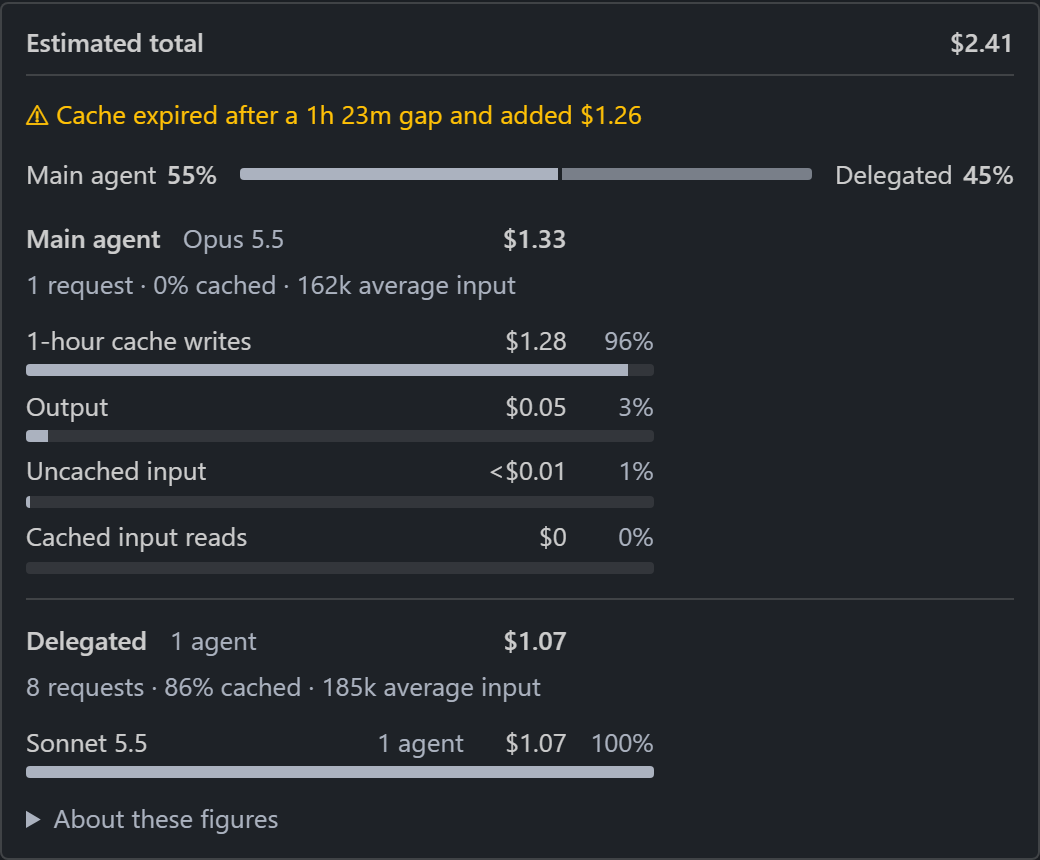
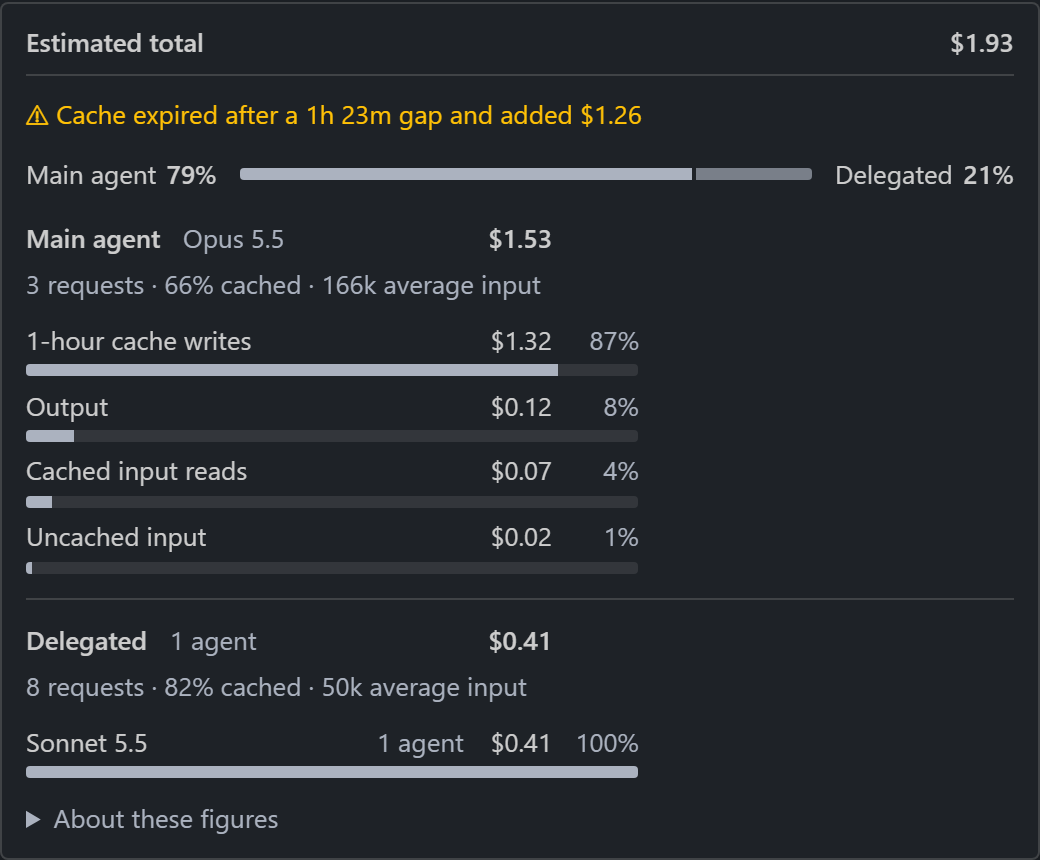
docs(readme): use realistic request counts in the cost sample
The cost sample turn now describes a plausible Opus turn with one Sonnet subagent.

Main agent: 1 request, 0% cached, 162k average input, $1.33 becomes 3 requests, 66% cached, 166k average input, $1.53. The first request still rewrites the expired cache, so the warning still reads "Cache expired after a 1h 23m gap and added $1.26". The expiry evidence now reads that first request alone. The other two requests read the rewritten cache.

Delegated Sonnet 5.5: 8 requests, 86% cached, 185k average input, $1.07 becomes 8 requests, 82% cached, 50k average input, $0.41. The estimated total changes from $2.41 to $1.93.

The turn card in the comment scenes now uses the same main-agent usage, so it shows $1.93 and 17% of 1M context instead of $3.41 and 5%. The Delegated Cost demo session keeps its own figures.

Replaced readme-cost.webp, readme-comment.webp, and readme-comment-editor.webp. No test expectation changed. panel-shots.test.ts and exportsite.test.ts pass.

Agent: claude-sonnet-5-5 (claude-code)
Agent-Session: 4dfbd3de-1eff-4f38-82e0-29401e255a1b

diff --git a/extension/scripts/readme-fixture.ts b/extension/scripts/readme-fixture.ts
@@ -320,31 +320,31 @@ const changesTurn: Turn = turn({
           model: 'claude-sonnet-5-5',
           usage: {
             requests: 8,
-            input: 42_000,
+            input: 12_000,
             cacheWrite1h: 0,
-            cacheWrite5m: 160_000,
-            cacheRead: 1_280_000,
-            output: 46_000,
+            cacheWrite5m: 60_000,
+            cacheRead: 328_000,
+            output: 20_000,
             thinking: 0,
           },
         },
       ],
       durationMs: 94_000,
-      tokens: 1_528_000,
+      tokens: 420_000,
       toolUses: 9,
       artifacts: { files: [], commits: [], complete: true, revision: 'changes-check' },
     }),
   ],
   usage: {
-    requests: 12,
-    input: 54_000,
-    cacheWrite1h: 0,
-    cacheWrite5m: 240_000,
-    cacheRead: 1_720_000,
-    output: 62_000,
+    requests: 3,
+    input: 4_000,
+    cacheWrite1h: 165_500,
+    cacheWrite5m: 0,
+    cacheRead: 328_000,
+    output: 6_000,
     thinking: 0,
   },
-  contextTokens: 52_000,
+  contextTokens: 168_000,
   contextWindow: 1_000_000,
   toolUses: 22,
   toolCounts: { edits: 3, reads: 8, searches: 3, commands: 6, agents: 1, coordination: 1, web: 0, other: 0 },
@@ -401,12 +401,18 @@ const expiryUsage = {
   output: 2_300,
   thinking: 0,
 };
+// The main agent makes three requests. The first starts the subagent and rewrites the expired cache, which is the request the expiry evidence holds. The second reads the subagent result and the third writes the answer, so both read the rewritten cache.
+const expiryTurnUsage = changesTurn.usage;
 const expiryTurn: Turn = {
   ...changesTurn,
-  usage: expiryUsage,
-  contextTokens: 162_000,
-  outputRate: { output: 2_300, milliseconds: 23_000 },
+  usage: expiryTurnUsage,
+  contextTokens: 168_000,
+  outputRate: { output: 6_000, milliseconds: 60_000 },
 };
+// The cache expiry evidence reads the request that crossed the lifetime, which is the first request of a turn.
+function firstRequestUsage(item: Turn): Turn['usage'] {
+  return item.promptId === expiryTurn.promptId ? expiryUsage : item.usage;
+}
 const expiryHistory: Turn[] = [
   expiryTurn,
   { ...beforeExpiry, usage: expiryUsage, contextTokens: 162_000 },
@@ -436,7 +442,7 @@ const expiryHistory: Turn[] = [
     inferenceClass: null,
     serviceTier: null,
     readBack: false,
-    outputTokens: item.usage.output,
+    outputTokens: firstRequestUsage(item).output,
   },
 }));
 const expiryRequest: ProjectUsageBucket = {
@@ -475,16 +481,16 @@ for (let index = expiryHistory.length - 2; index >= 0; index--) {
     requestKey: `claude:${item.openingResponseId}`,
     visibleTurnId: item.promptId,
     timestamp: item.startedAt,
-    inputTokens: item.usage.input + item.usage.cacheWrite1h,
+    inputTokens: firstRequestUsage(item).input + firstRequestUsage(item).cacheWrite1h,
   });
-  const verdict = classifyCacheExpiry(carry(previous), carry(current), current.usage);
+  const verdict = classifyCacheExpiry(carry(previous), carry(current), firstRequestUsage(current));
   if (verdict.kind !== 'return') throw new Error('The README return request did not cross its cache lifetime.');
   expiryFacts.counts[verdict.lifetime]++;
   expiryFacts.longestGapMs = Math.max(expiryFacts.longestGapMs ?? 0, verdict.gapMs);
   expiryFacts.returns.push({
     lifetime: verdict.lifetime,
     gapMs: verdict.gapMs,
-    request: { ...expiryRequest, usage: current.usage },
+    request: { ...expiryRequest, usage: firstRequestUsage(current) },
     visibleTurnId: current.promptId,
     requestKey: carry(current).requestKey,
     previousInputSide: carry(previous).inputTokens,
@@ -1164,7 +1170,7 @@ export const DEMO_TURNS: Record<string, Turn[]> = {
       sessionId: 'delegated-cost',
       sessionTitle: 'Count delegated work once',
       promptId: 'delegated-cost-turn',
-      outputRate: expiryTurn.outputRate,
+      outputRate: { output: 2_300, milliseconds: 23_000 },
       outputRateBasis: 'request',
       startedAt: expiryTurn.startedAt,
       endedAt: CAPTURE_TIME - 4 * 60_000,
@@ -1172,7 +1178,7 @@ export const DEMO_TURNS: Record<string, Turn[]> = {
       summary: `The session cost separates main-agent usage from delegated usage.\n\n${changesTurn.summary}`,
       model: 'claude-opus-5-5',
       effort: 'high',
-      contextTokens: expiryTurn.contextTokens,
+      contextTokens: 162_000,
       contextWindow: 1_000_000,
       contextRequest: {
         at: CAPTURE_TIME - 4 * 60_000,
